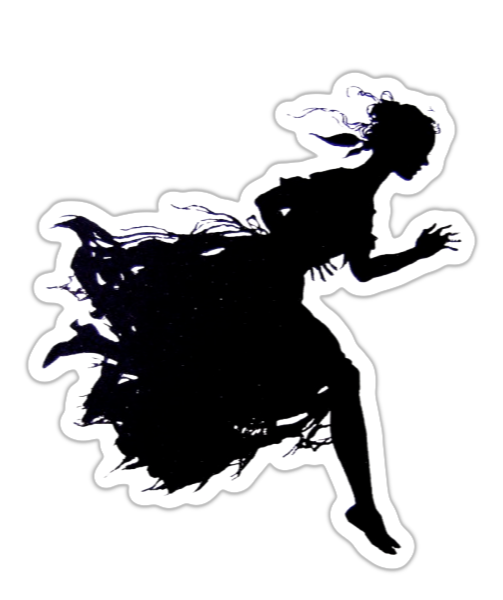
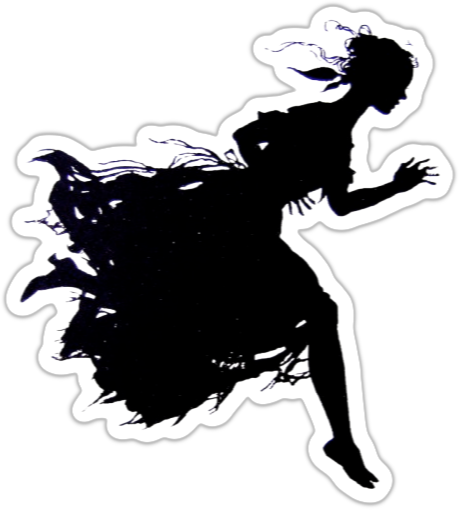
MInor fixes

Changed region(s): [[0.0, 0.0, 1.0, 1.0], [0.244, 0.4412, 0.305, 0.4706], [0.6405, 0.6176, 0.671, 0.6471]]

diff --git a/GuiaDeCazaVampirosParaNinasMolonas/GuiaDeCazaVampirosParaNinasMolonas.html b/GuiaDeCazaVampirosParaNinasMolonas/GuiaDeCazaVampirosParaNinasMolonas.html
@@ -601,7 +601,7 @@
 </div><div class="saltopagina even" id="anchor42"></div>
 <h2>Entrada y salida de las cazas</h2>
 <div class="columns">
-<p><a href="https://www.flickr.com/photos/37217398@N02/3737850192" title="Cinderella running by Elizabeth"><img src="./assests/images/3737850192_5e9704d97c_c.jpg" alt="Cinderella running by Elizabeth" title="Cinderella running by Elizabeth" /></a></p>
+<p><a href="https://www.flickr.com/photos/37217398@N02/3737850192" title="Cinderella running by Elizabeth"><img src="./assests/images/3737850192_5e9704d97c_c.png" alt="Sticker Cinderella running by Elizabeth" title="Cinderella running by Elizabeth" /></a></p>
 <p>Uno de los grandes problemas cuando eres menor de edad es que no eres totalmente autónoma y estás a expensas de sus padres. Así que muchas veces no vas a poder acudir a las cazas programadas por la panda. El día a día te come, así que si durante alguna ronda de vigilancia una cazavampiros no puede asistir, es una putada, pero es entendible. Todas tenemos nuestros compromisos fuera de la actividad cazavampiros.</p>
 <p>No es la primera vez que estando de caza, persiguiendo a un esquivo vampiro, he tenido que desaparecer y dejar colgada a mis amigas porque mis padres me habían puesto un toque de queda. Queda raro mirar el reloj y tener que decirles a mis sistars &quot;Mierda chica, me voy. Llego tarde a la cena de cumpleaños del tonto de mi hermano&quot;.</p>
 <p>Para que las tengas controladas, estas son muchas de las situaciones en las que te verás obligada a abandonar a tus compañeras:</p>
@@ -1702,8 +1702,8 @@ Creative Commons Attribution-NonCommercial-NoDerivs 2.0 Generic License</li>
 <img src="./assests/images/0wum_0ffy_211014.jpg" alt="" /></p>
     </section>
   </body>
-  <link rel="stylesheet" href="./assests/css/style.css?ver=BETA 0.7.2&hash=2025012809">
-  <link rel="stylesheet" href="./assests/css/pdf.css?ver=BETA 0.7.2&hash=2025012809">
+  <link rel="stylesheet" href="./assests/css/style.css?ver=BETA 0.7.2&hash=2025012811">
+  <link rel="stylesheet" href="./assests/css/pdf.css?ver=BETA 0.7.2&hash=2025012811">
   <script>
     //WordCount
     var cont = document.documentElement.innerHTML;

diff --git a/GuiaDeCazaVampirosParaNinasMolonas/assests/css/style.css b/GuiaDeCazaVampirosParaNinasMolonas/assests/css/style.css
@@ -723,8 +723,15 @@ section:not(section:first-of-type, section:nth-of-type(3), section:last-of-type)
   transform: rotate(2deg);
 }
 
+section:not(section:first-of-type, section:nth-of-type(3), section:last-of-type) p a:has(img[alt^=Sticker]) img {
+  box-shadow: none;
+  transform: rotate(1deg);
+}
+
 section:not(section:first-of-type, section:nth-of-type(3), section:last-of-type) p a:has(img[alt^=Pegatina]):before,
-section:not(section:first-of-type, section:nth-of-type(3), section:last-of-type) p a:has(img[alt^=Pegatina]):after {
+section:not(section:first-of-type, section:nth-of-type(3), section:last-of-type) p a:has(img[alt^=Pegatina]):after,
+section:not(section:first-of-type, section:nth-of-type(3), section:last-of-type) p a:has(img[alt^=Sticker]):before,
+section:not(section:first-of-type, section:nth-of-type(3), section:last-of-type) p a:has(img[alt^=Sticker]):after {
   display: none;
 }
 

diff --git a/GuiaDeCazaVampirosParaNinasMolonas/LasReglasDelJuego.md b/GuiaDeCazaVampirosParaNinasMolonas/LasReglasDelJuego.md
@@ -322,7 +322,7 @@ A nivel de juego puedes usar unas tarjetas que encontrarás en el Epílogo para 
 
 \conc
 
-[![Cinderella running by Elizabeth](./assests/images/3737850192_5e9704d97c_c.png "Cinderella running by Elizabeth")](https://www.flickr.com/photos/37217398@N02/3737850192 "Cinderella running by Elizabeth")
+[![Sticker Cinderella running by Elizabeth](./assests/images/3737850192_5e9704d97c_c.png "Cinderella running by Elizabeth")](https://www.flickr.com/photos/37217398@N02/3737850192 "Cinderella running by Elizabeth")
 
 Uno de los grandes problemas cuando eres menor de edad es que no eres totalmente autónoma y estás a expensas de sus padres. Así que muchas veces no vas a poder acudir a las cazas programadas por la panda. El día a día te come, así que si durante alguna ronda de vigilancia una cazavampiros no puede asistir, es una putada, pero es entendible. Todas tenemos nuestros compromisos fuera de la actividad cazavampiros.
 
